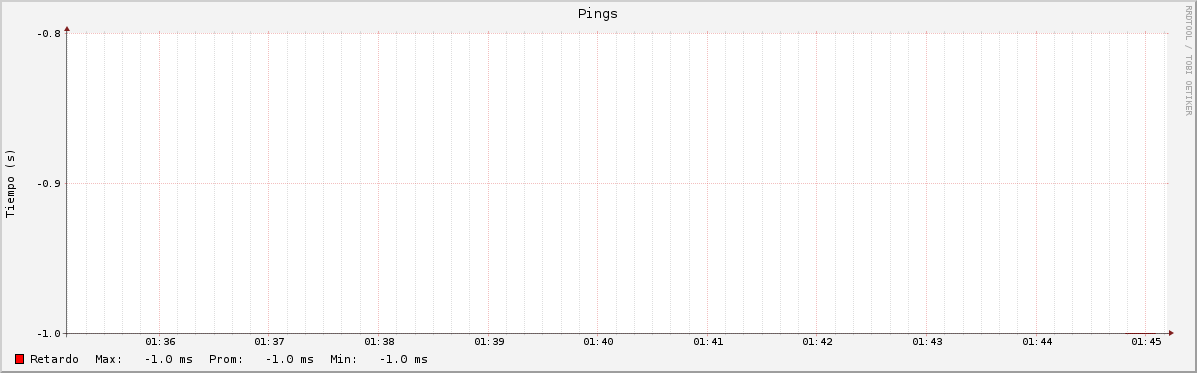
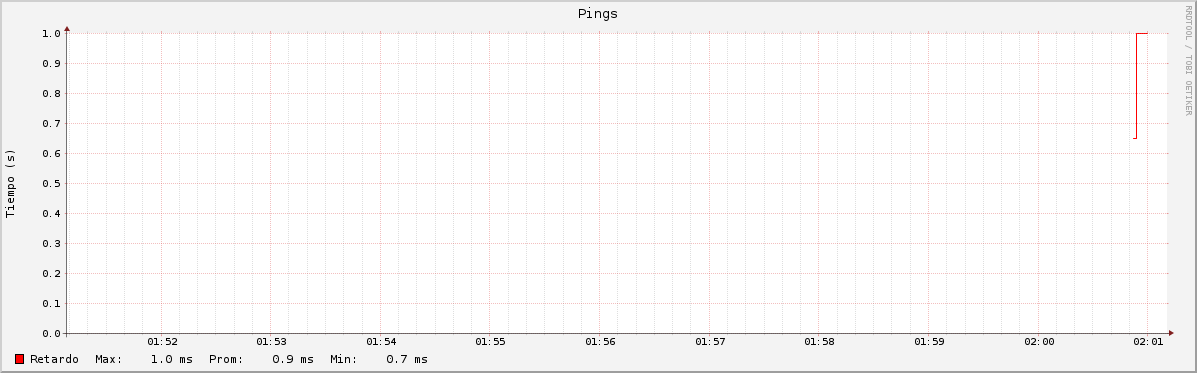
ping 10.0.1.2

diff --git a/Practicas/PingPoller/rrdtool-ping.py b/Practicas/PingPoller/rrdtool-ping.py
@@ -9,12 +9,16 @@ fname = 'ping_' + hostname.replace('.', '_') + '.rrd'
 # Se actualiza la bd con valores de [0, 1000] ms cada segundo.
 #while True:
 ping_time = ping(hostname)
-#rrdtool.update(fname, 'N:%d' % ping_time)
 
-rrdtool.update(
-    fname,
+if ping_time == -1:
+    ping_time=1.0
+
+rrdtool.update(fname, 'N:%d' % ping_time)
+
+#rrdtool.update(
+#    fname,
 #    '-t', 'ping_%s' % hostname.replace('.', '_'),
-    '%d:%d' % (int(time.time()), ping_time)
-)
+#    '%d:%d' % (int(time.time()), ping_time)
+#)
 #time.sleep(1)
 
